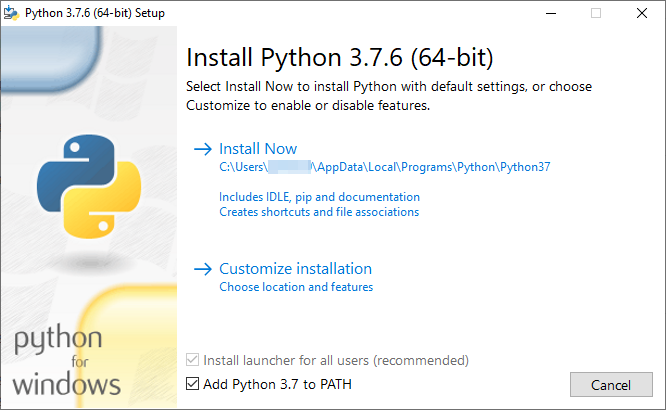
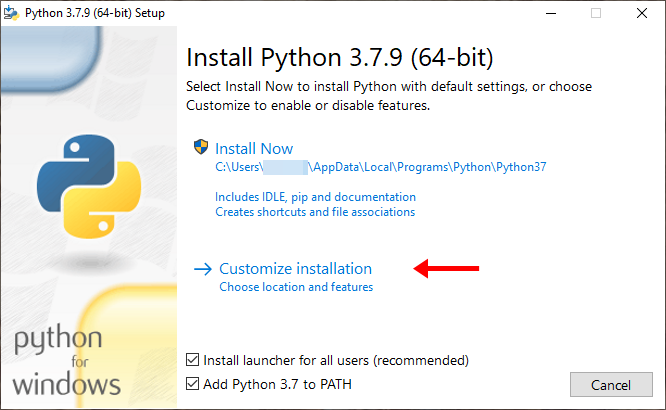
Update the Python installation instructions from 3.7.6 to 3.7.9.

diff --git a/getting_started/install.rst b/getting_started/install.rst
@@ -62,8 +62,11 @@ Follow this procedure to install Python on your system:
 #. Download the |python-download-link|.
    Alyvix is :warn:`not` compatible with 32-bit versions of Python.
 
-#. Start the installation by right-clicking on the executable and selecting **"Run as administrator"**.
-   Check the box "Add Python 3.7 to PATH" and then choose **"Customize installation"**.
+#. Start the installation:
+
+   1. Right-click on the downloaded executable and select **"Run as administrator"**
+   2. Check the box **"Add Python 3.7 to PATH"** at the bottom
+   3. Choose the option **"Customize installation"**
 
    .. image:: images/python-install-01.png
       :width: 75%
@@ -92,7 +95,7 @@ Follow this procedure to install Python on your system:
       :class: short-code-block
 
       C:\> python --version
-      Python 3.7.6
+      Python 3.7.9
 
 |
 

diff --git a/README.md b/README.md
@@ -35,7 +35,7 @@ index structure shown at the left side of the documentation.
 ## Installation
 
 The Alyvix documentation does not require a particular operating system, but does assume you
-are using the same version of Python as Alyvix itself (currently 3.7.6).  You will need to
+are using the same version of Python as Alyvix itself (currently 3.7.9).  You will need to
 [download Python](https://www.python.org/downloads/) and then run the installer (the *pip*
 package installer should be included).
 

diff --git a/release_notes/release_notes_31.rst b/release_notes/release_notes_31.rst
@@ -19,7 +19,7 @@ Version 3.1.0 - 3.1.5 (Current)
 Alyvix is an open source APM software tool for visual monitoring. If your machine matches the
 system requirements for Alyvix, you can :ref:`install or upgrade it <getting_started_top>`.
 
-**Python 3.7.6 64-bit official distribution** is the recommended Python version to power
+**Python 3.7.9 64-bit official distribution** is the recommended Python version to power
 Alyvix 3.1.x.
 
 
